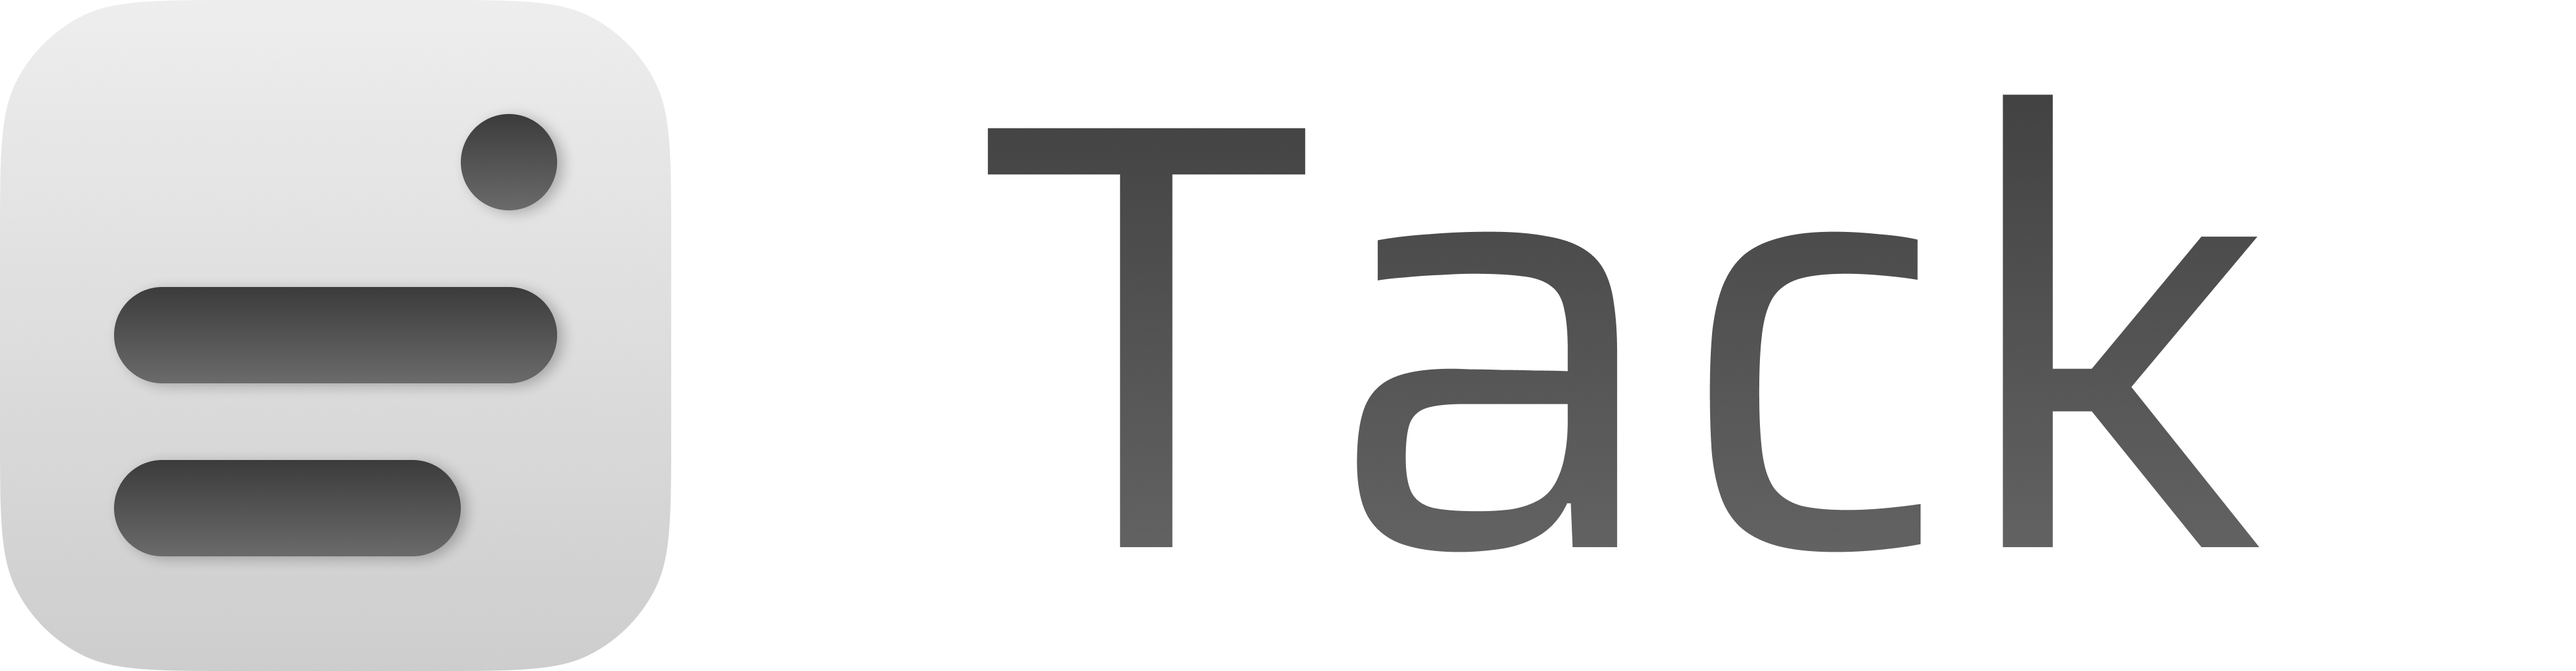
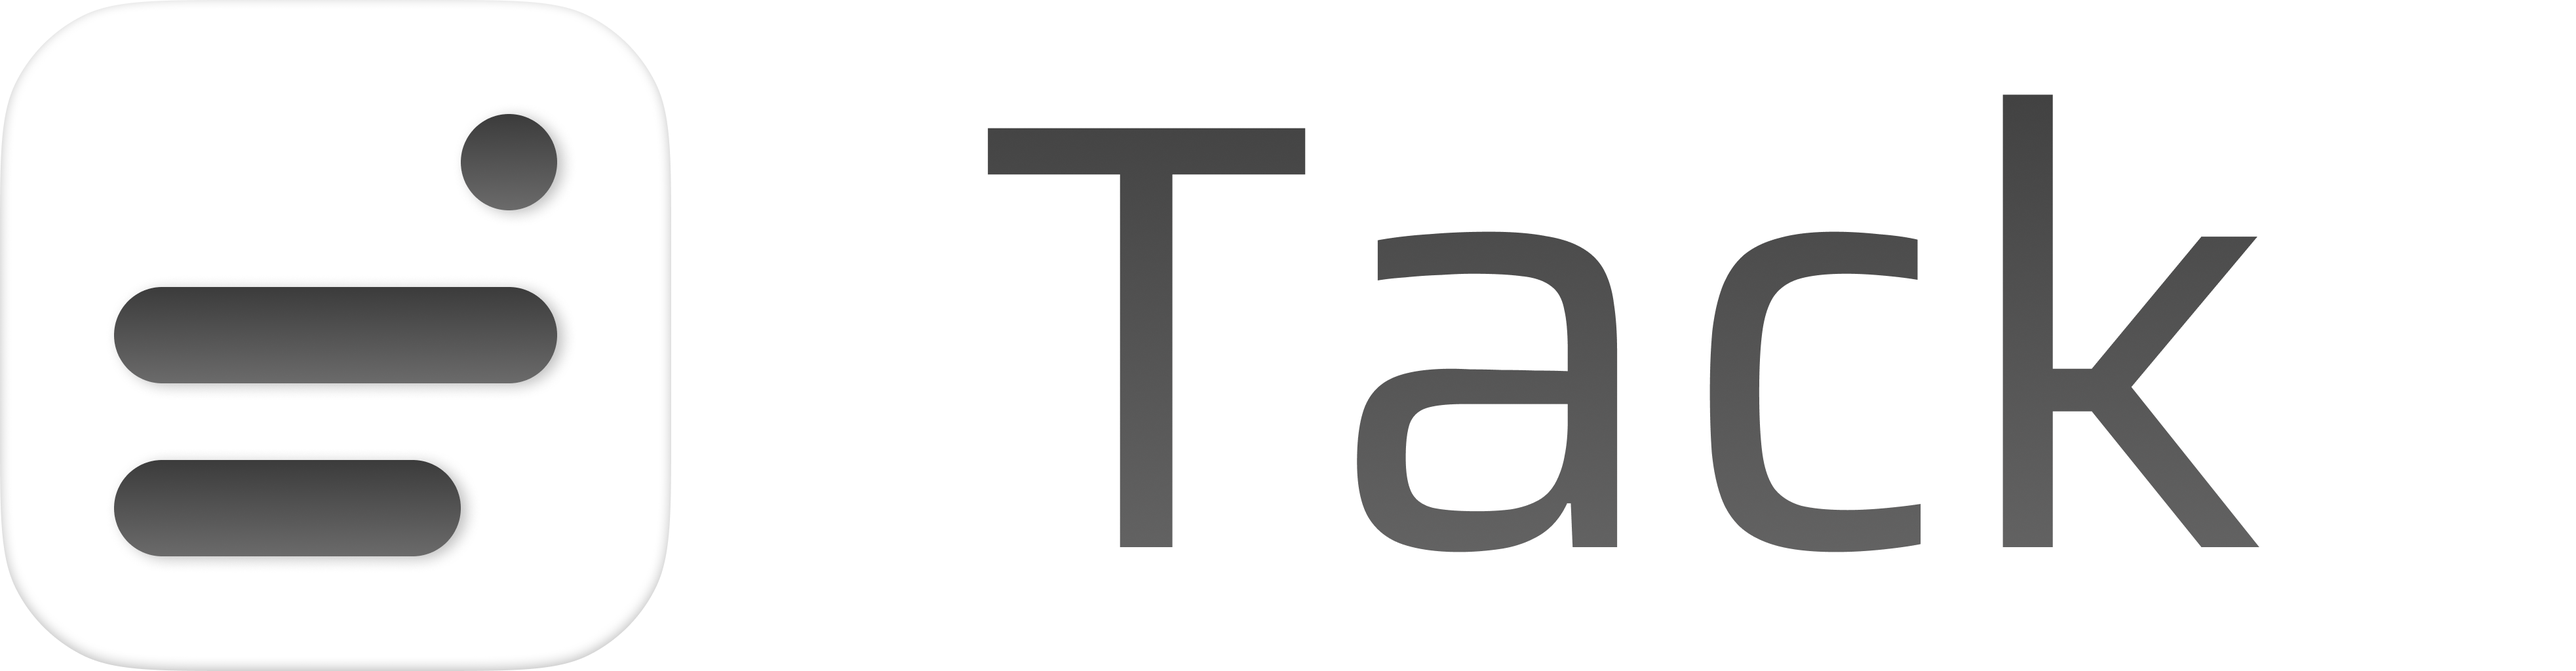
chore: refresh branding assets and consolidate readme demo

Changed region(s): [[0.0, 0.1875, 0.2794, 1.0]]

diff --git a/README.md b/README.md
@@ -7,9 +7,7 @@
 Sticky notes that stick to windows, not your desktop.
 
 <p align="center">
-  <img src="images/example1.gif" alt="Tack in finder" width="800">
-  <img src="images/example2.gif" alt="Tack in finder" width="800">
-  <img src="images/example3.gif" alt="Tack in finder" width="800">
+  <img src="images/example.gif" alt="Tack in finder" width="800">
 </p>
 
 Tack is a tiny macOS menu-bar app. Pin a note to a Finder folder or to any app window — the note follows the window as it moves, stays inside its bounds, and reappears when you come back to that window.
